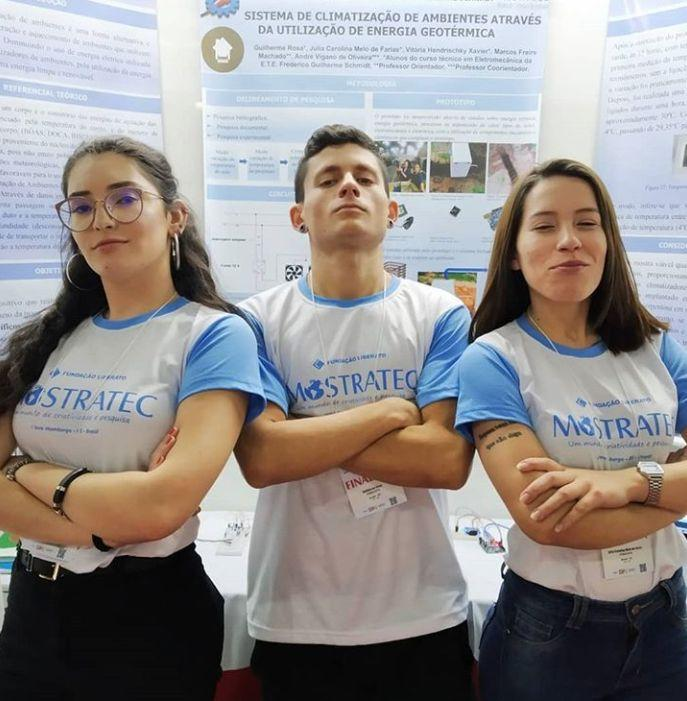
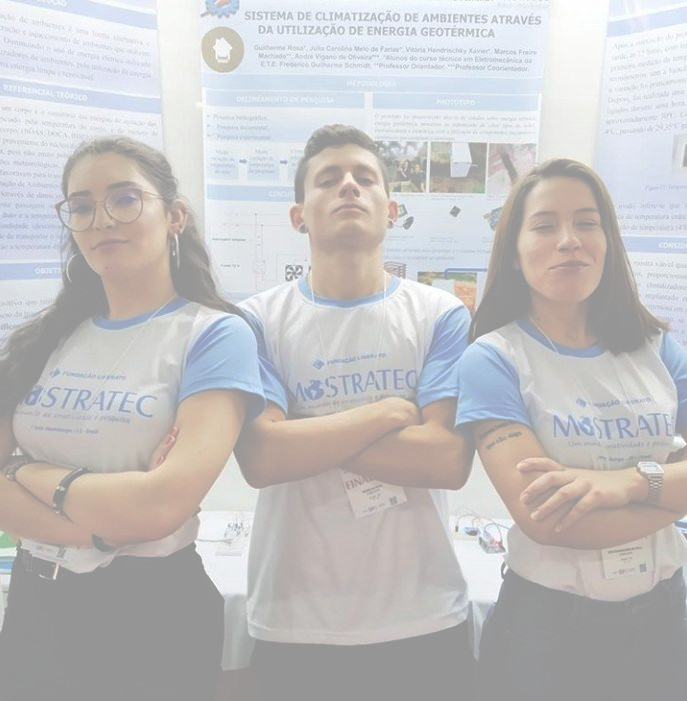
...

diff --git a/index.html b/index.html
@@ -65,7 +65,7 @@
              <div class="slide slide_1">
                 <div class="slide-content">
                    <h2>Trabalho de Conclusão de Curso</h2>
-                   <p>O projeto Sitema de Climatização de Ambientes por Energia Geotérmica apresentado em 2019 na mostratec.</p>
+                   <p>O projeto Sitema de Climatização de Ambientes por Energia Geotérmica apresentado em 2019 na <a href="">MOSTRATEC</a>.</p>
                 </div>
              </div>
              <div class="slide slide_2">
@@ -83,7 +83,7 @@
              <div class="slide slide_4">
                 <div class="slide-content">
                    <h2>Slide 4</h2>
-                   <p>Content for Slide 4</p>
+                   <p>Lorem ipsum dolor sit amet consectetur adipisicing elit. Ex quidem inventore aspernatur, eligendi impedit nihil, reiciendis praesentium harum placeat quas neque rem rerum, odit architecto expedita blanditiis quisquam ipsam tenetur?</p>
                 </div>
              </div>
           </div>

diff --git a/estilo/style.css b/estilo/style.css
@@ -182,7 +182,7 @@
   .Contato h2 {
       color: whitesmoke;
       margin-top: 1em;
-      margin-bottom: 1em;
+      margin-bottom: 0.5em;
       font-size: 2em;
   }
   
@@ -222,13 +222,15 @@
 #slider input[type=radio] {
   display: none;
 }
+
 #slider label {
   cursor:pointer;
   text-decoration: none;
 }
+
 #slides {
   border-radius: 10px;
-  height: 50%;
+  height: 100%;
   padding: 10px;
   border: 3px solid #ccc;
   background: #fff;
@@ -263,12 +265,19 @@
   display: flex;
   justify-content: center;
   align-items: center;
-  height: 100%;
+  height: 165%;
   color: #fff;
 }
 #slides .slide_1 {
   background: url('https://raw.githubusercontent.com/gguilherme42/Imersao_CSS/master/imagens/tcc_card.jpg') center/cover;
+  background-color: rgba(red, green, blue, 0.4);
 }
+
+.slide_1 .slide-content h2, p{
+  color: whitesmoke;
+  
+}
+
 #slides .slide_2 {
   background: #003459;
 }
